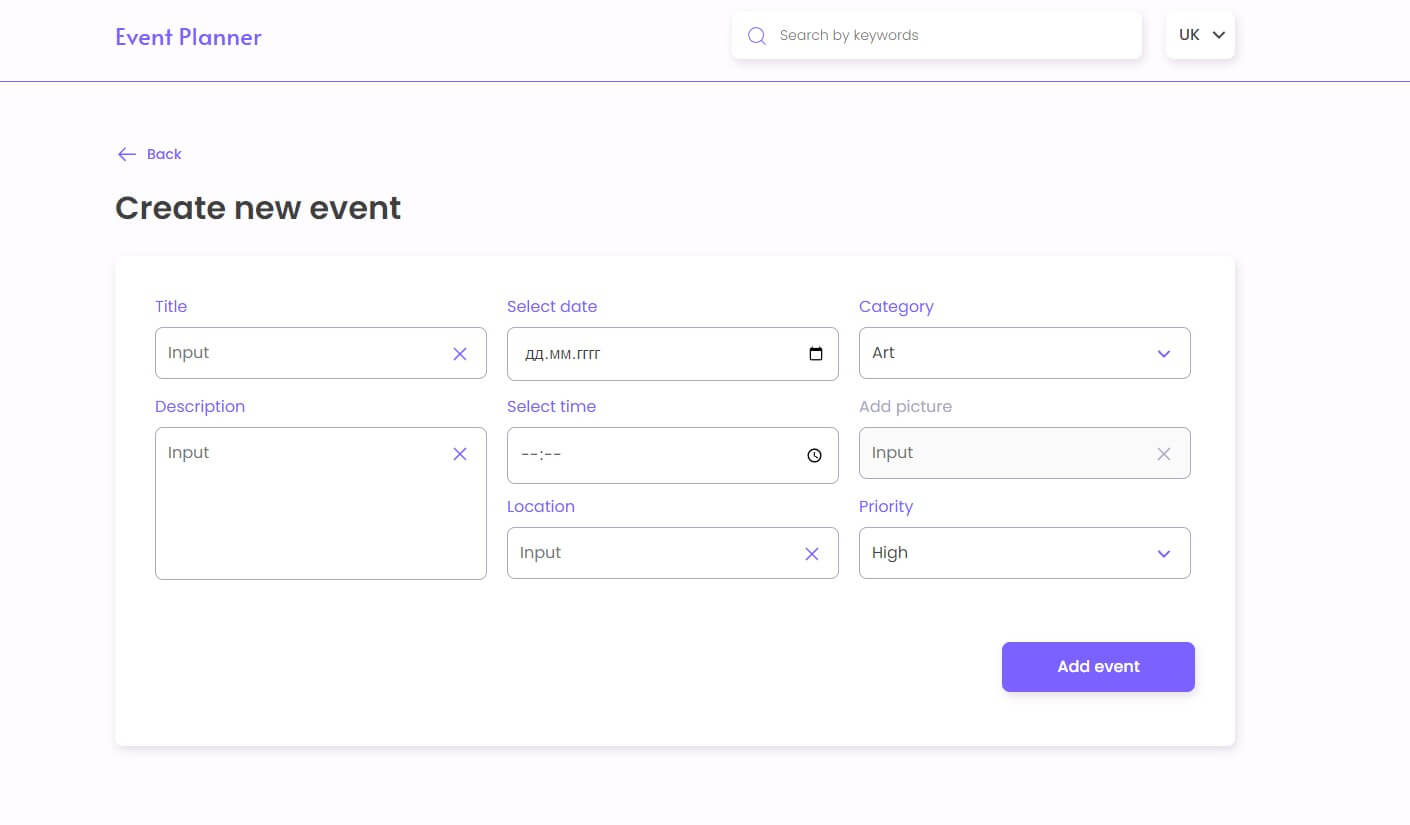
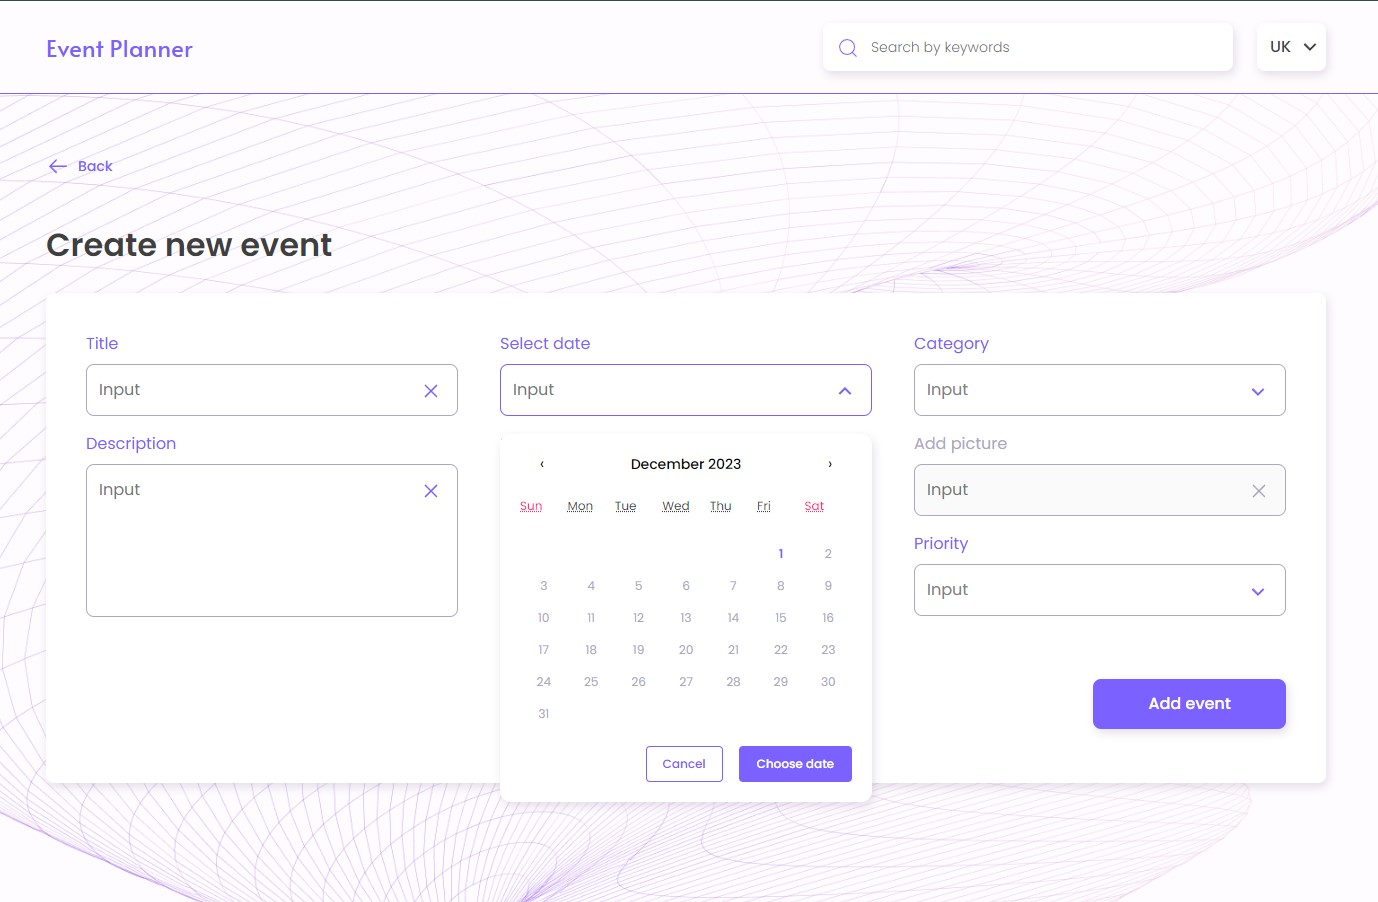
made changes to readme

diff --git a/README.md b/README.md
@@ -7,6 +7,8 @@
 ## <ul>Main functionality:</ul>
 
 <li>On the main page, you can view all upcoming events.</li>
+<li>You can also filter events by category or sort them by date or priority on the main page</li>
+<li>Search for events by keyword is implemented</li>
 <li>It is possible to add a new event by filling out the information form and choosing the priority and category of the event.</li>
 
 ![Create event page](./src/images/create-event-page.jpg)
@@ -19,11 +21,15 @@
 ## Used technologies:
 
 - React.js
+- React-redux
 - Redux-toolkit
 - React-Router-Dom
 - Styled Components
 - React-hook-form
+- React-select
+- React-calendar
+- Swiper for date picker
 - React-hot-toast for toast notifications
 
-The stylization implements a responsive layout with three breakpoints: 320px, 768px, 1280px.
-Use the Mobile first approach.
+The stylization implements a responsive layout with three breakpoints: 320px,
+768px, 1280px. Use the Mobile first approach.
